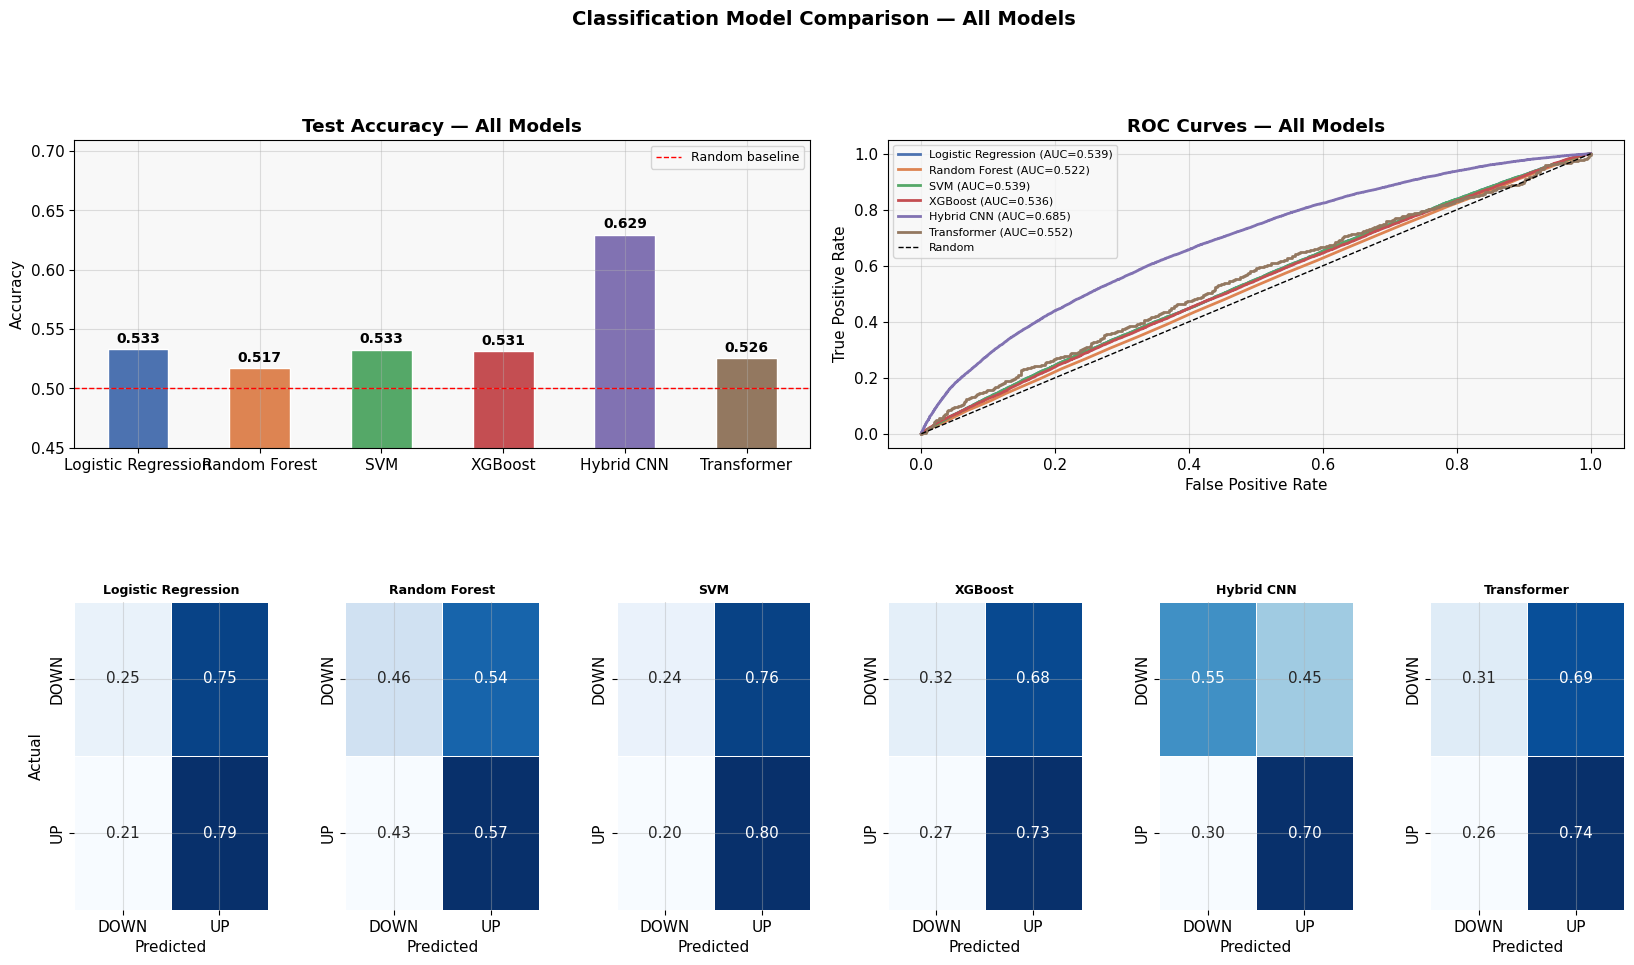
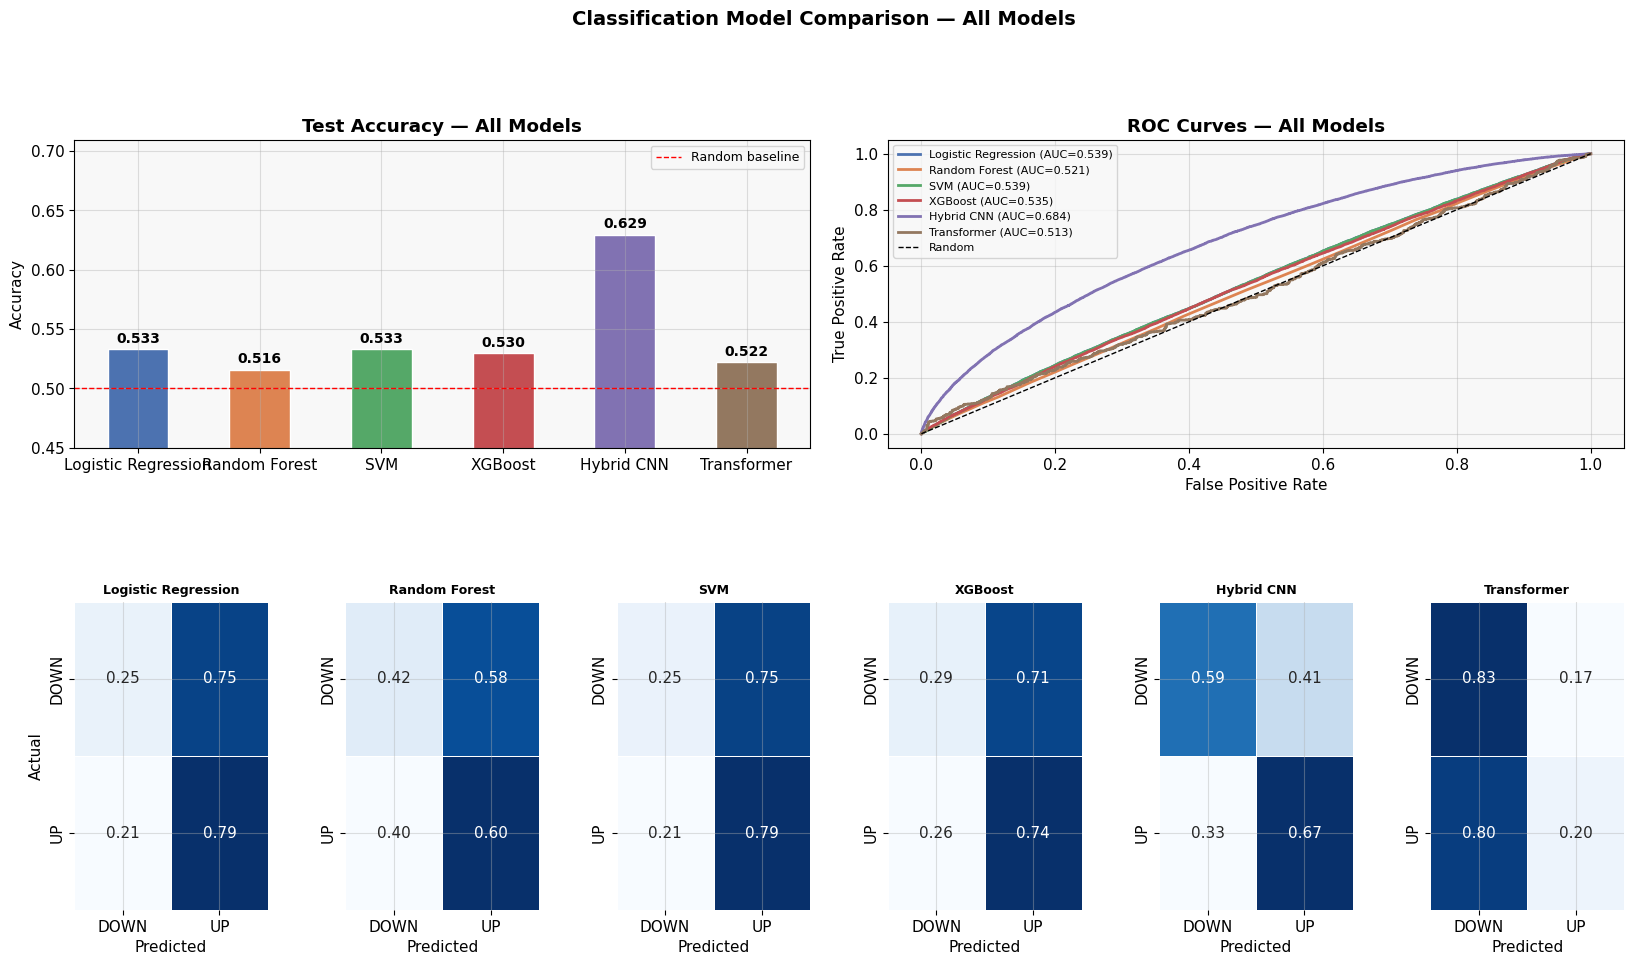
Update scaler on deployed model

diff --git a/src/data/__init__.py b/src/data/__init__.py
@@ -1,6 +1,7 @@
 from .loader import load_data, train_val_test_split_by_date
 from .preprocessing import preprocess
 import pandas as pd
+import joblib
  
  
 def get_data(
@@ -61,6 +62,9 @@ def get_data(
         signals_train, X_train, y_class_train, y_reg_train, feat_scaler = preprocess(
             prices_train, feats_train, df_train, window_size
         )
+
+        # Save scaler for inference
+        joblib.dump(feat_scaler, "feat_scaler.pkl")
 
         # Preprocess val — reuses train scalers 
         signals_val, X_val, y_class_val, y_reg_val, _ = preprocess(
@@ -125,7 +129,8 @@ def get_inference_data(
     start: str,
     end: str,
     feature_fn,
-    window_size: int = 20
+    window_size: int = 20,
+    scaler_path = "mlruns/0/models/m-2625090976b0414692913fddd8e752a9/feat_scaler.pkl"
 ) -> pd.DataFrame:
     """
     Simplified data pipeline for inference — no train/val/test split.
@@ -146,8 +151,10 @@ def get_inference_data(
     prices = df["Close"].to_numpy().flatten()
     feats  = feature_fn(prices, window=window_size)
 
+    print(scaler_path)
+    feat_scaler_in = joblib.load(scaler_path)
     signals, X, y_class, y_reg, _ = preprocess(
-        prices, feats, df, window_size
+        prices, feats, df, window_size, feat_scaler=feat_scaler_in
     )
 
     print("feats length:", len(feats))

diff --git a/main.py b/main.py
@@ -28,7 +28,7 @@ from src.data.features import return_all_features, make_transformer_sequences
 
 mlflow.set_tracking_uri("file:///app/mlruns")
 
-MLFLOW_RUN_ID = "c61919e6542a407583c9b888db098d58"
+MLFLOW_RUN_ID = "c84f4f5e4f284023a60a916ba65dbf51"
 MODEL_URI = f"mlruns/0/models/m-{MLFLOW_RUN_ID}/artifacts"
 WINDOW_SIZE     = int(os.getenv("WINDOW_SIZE",  "20"))
 SEQ_LEN         = int(os.getenv("SEQ_LEN",      "30"))
@@ -163,7 +163,8 @@ def predict(request: PredictRequest):
             ticker         = request.ticker,
             start           = "2025-01-01",
             end             = today,
-            feature_fn      = return_all_features
+            feature_fn      = return_all_features,
+            scaler_path = f"mlruns/0/models/m-{MLFLOW_RUN_ID}/feat_scaler.pkl"
         )
     except Exception as e:
         import traceback